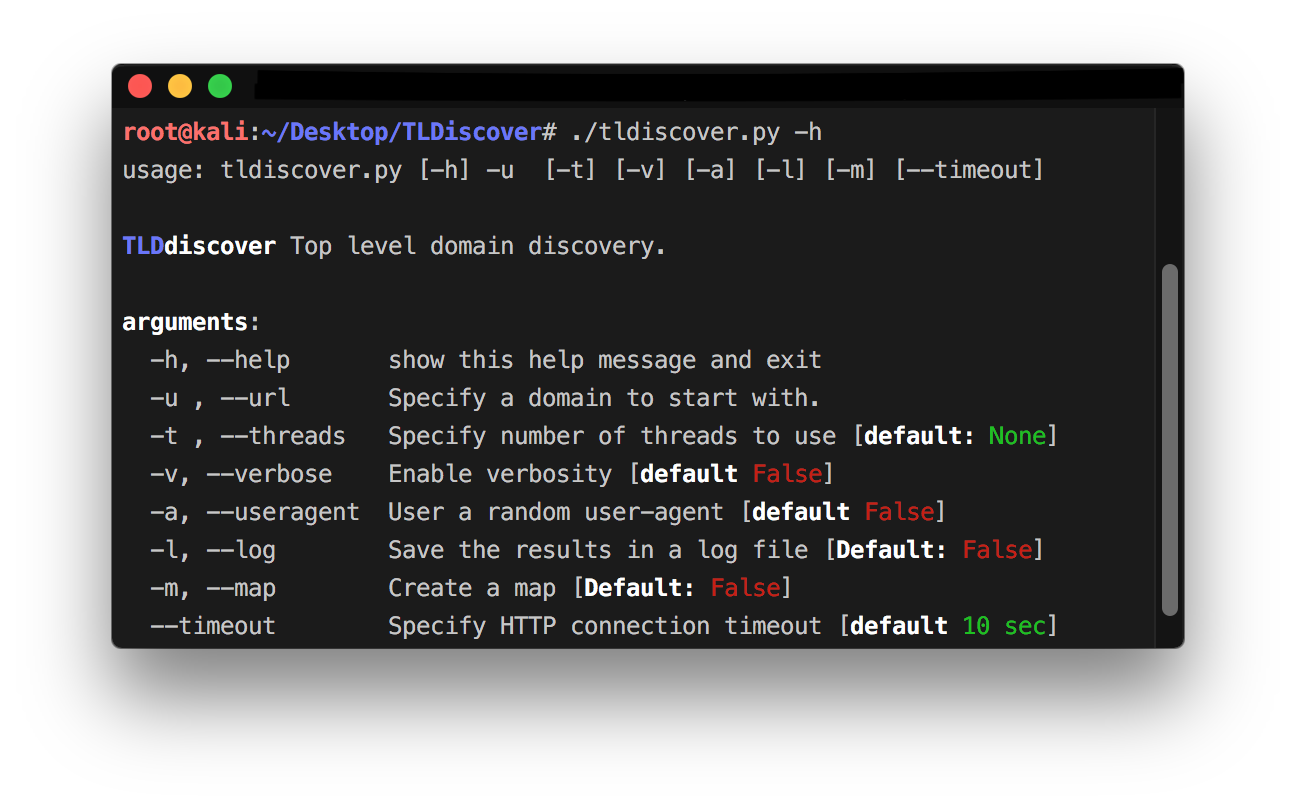
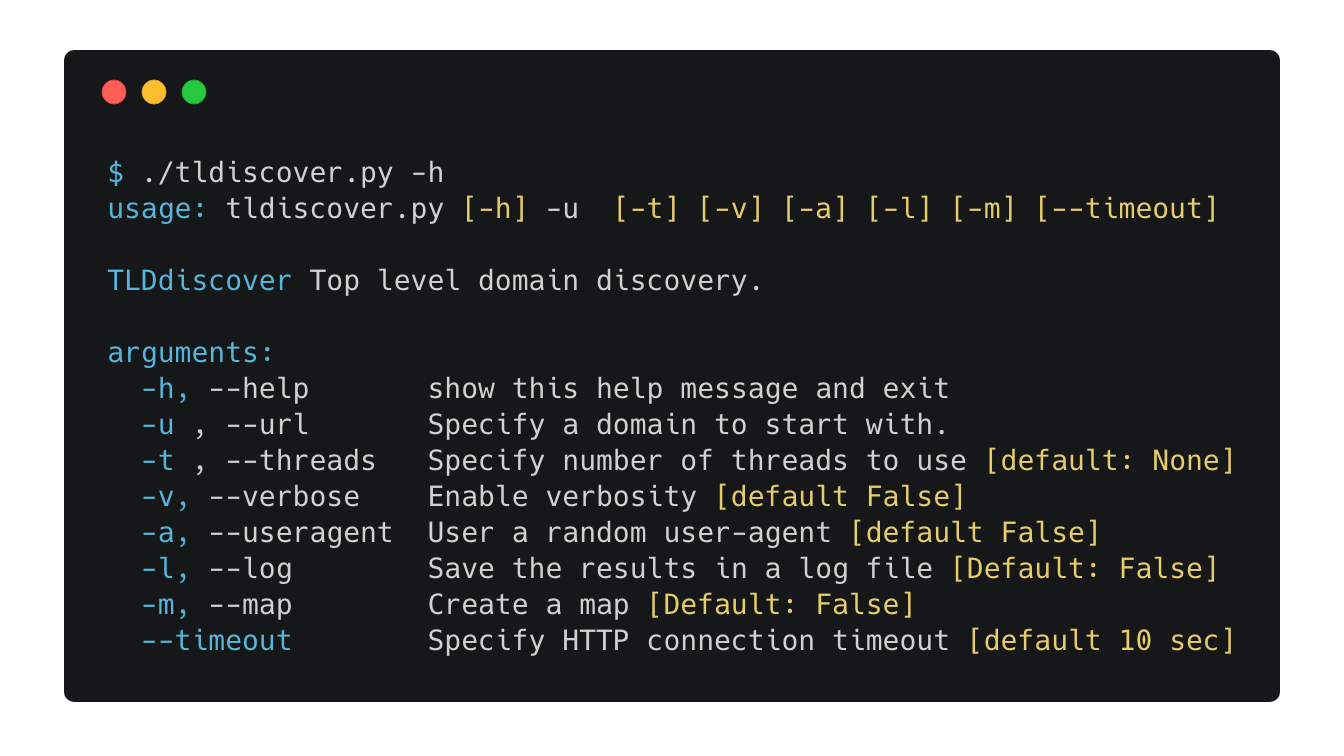
modified README

diff --git a/README.md b/README.md
@@ -2,7 +2,7 @@
 
 **TLDiscover** is a __multi-threaded__ _top-level-domain fuzzer._ 
 
-<center><img src="images/menu.png" width="70%"></center>
+<center><img src="images/3.png" width="70%"></center>
 
 The way it works is simple. It starts with a _base url_ and then attempts to find all the other possible domains by fuzzing the _top-level-domain_, __following redirects__ if needed. Actually it performs exactly like a normal browser following redirects but it's way faster. In this way it is possible to discover other domains or in some special cases even subdomains. In the process it also extracts some basic info (_the title if provided and attempts geolocation & mapping if possible_) for each page. The domains found may or may not be related with each other.
 
